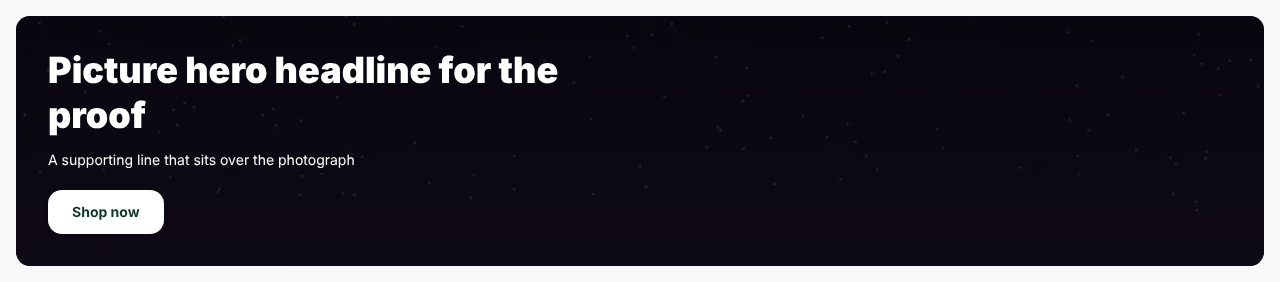
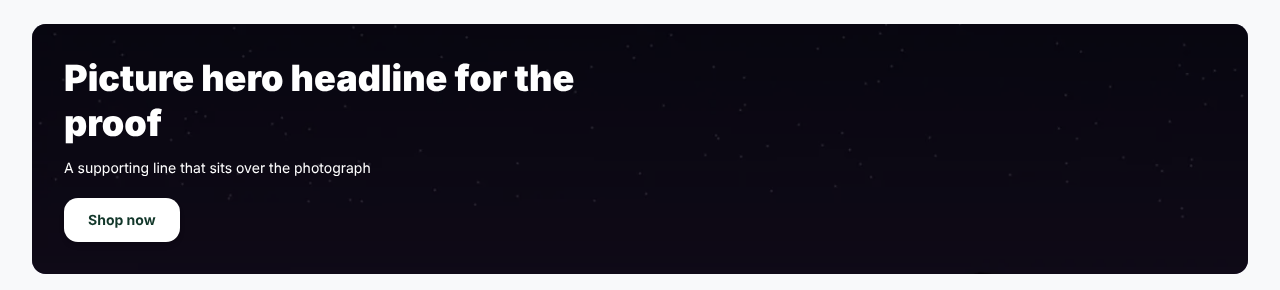
test(customizer): pixel proof renders inside the production container and stack (CUST-HV V6b-5)
Claude-Session: https://claude.ai/code/session_01X45qjD8TFC1aANFxVZSvb2

Changed region(s): [[0.0, 0.0567, 1.0, 0.9362], [0.0312, 0.9362, 0.9688, 0.9645]]

diff --git a/storefront/src/lib/presentation/pixel-proof.render.test.tsx b/storefront/src/lib/presentation/pixel-proof.render.test.tsx
@@ -12,9 +12,11 @@ import { renderToStaticMarkup } from "react-dom/server";
 import { describe, expect, it, vi } from "vitest";
 import { HeroSection } from "@/components/home/HeroSection";
 import { publishedNodes } from "@/components/home/published-nodes";
+import { StoreContainer } from "@/components/layout/StoreContainer";
 import { backgroundMediaPath } from "@/lib/presentation/background-media";
 import type { PresentationHomeSection } from "@/lib/presentation/config";
 import type { ResolvedMedia } from "@/lib/presentation/media-ref";
+import { publishedHomeStackClass } from "@/lib/presentation/public-rhythm";
 import { heroContentOf } from "@/lib/presentation/section-content";
 import ar from "../../../messages/ar.json";
 import en from "../../../messages/en.json";
@@ -175,7 +177,13 @@ describe.skipIf(!DIR)("V6b-5 pixel-proof pages", () => {
           ...base,
           renderHero: (a: Record<string, any>) => resolved.get(a.section.id),
         } as never);
-        const html = `<!doctype html><html lang="${dir === "rtl" ? "ar" : "en"}" dir="${dir}"><head><meta charset="utf-8"><meta name="viewport" content="width=device-width,initial-scale=1"><style>${css}</style><style>:root{--store-primary:#12372a;--store-primary-foreground:#ffffff;--store-foreground:#111827;--store-muted-foreground:#4b5563;--store-border:#e5e7eb;--store-surface:#ffffff;--store-radius:14px}body{background:#f8f9fa;margin:0;padding:16px;font-family:system-ui,sans-serif}</style></head><body>${renderToStaticMarkup(<>{nodes}</>)}</body></html>`;
+        const html = `<!doctype html><html lang="${dir === "rtl" ? "ar" : "en"}" dir="${dir}"><head><meta charset="utf-8"><meta name="viewport" content="width=device-width,initial-scale=1"><style>${css}</style><style>:root{--store-primary:#12372a;--store-primary-foreground:#ffffff;--store-foreground:#111827;--store-muted-foreground:#4b5563;--store-border:#e5e7eb;--store-surface:#ffffff;--store-radius:14px}body{background:#f8f9fa;margin:0;font-family:system-ui,sans-serif}</style></head><body>${renderToStaticMarkup(
+          <main id="main-content">
+            <StoreContainer className={publishedHomeStackClass(undefined)}>
+              {nodes}
+            </StoreContainer>
+          </main>,
+        )}</body></html>`;
         writeFileSync(
           join(
             DIR,
